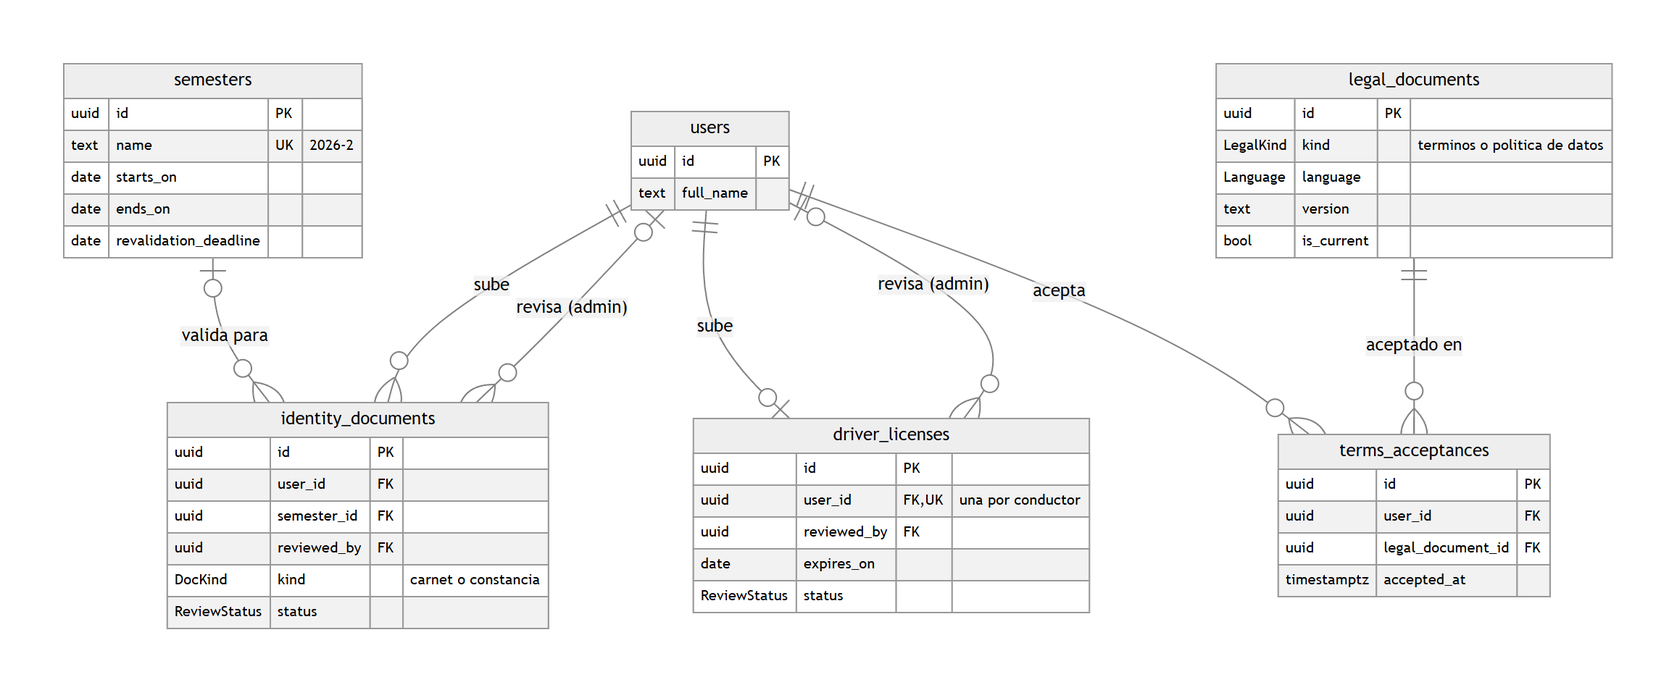
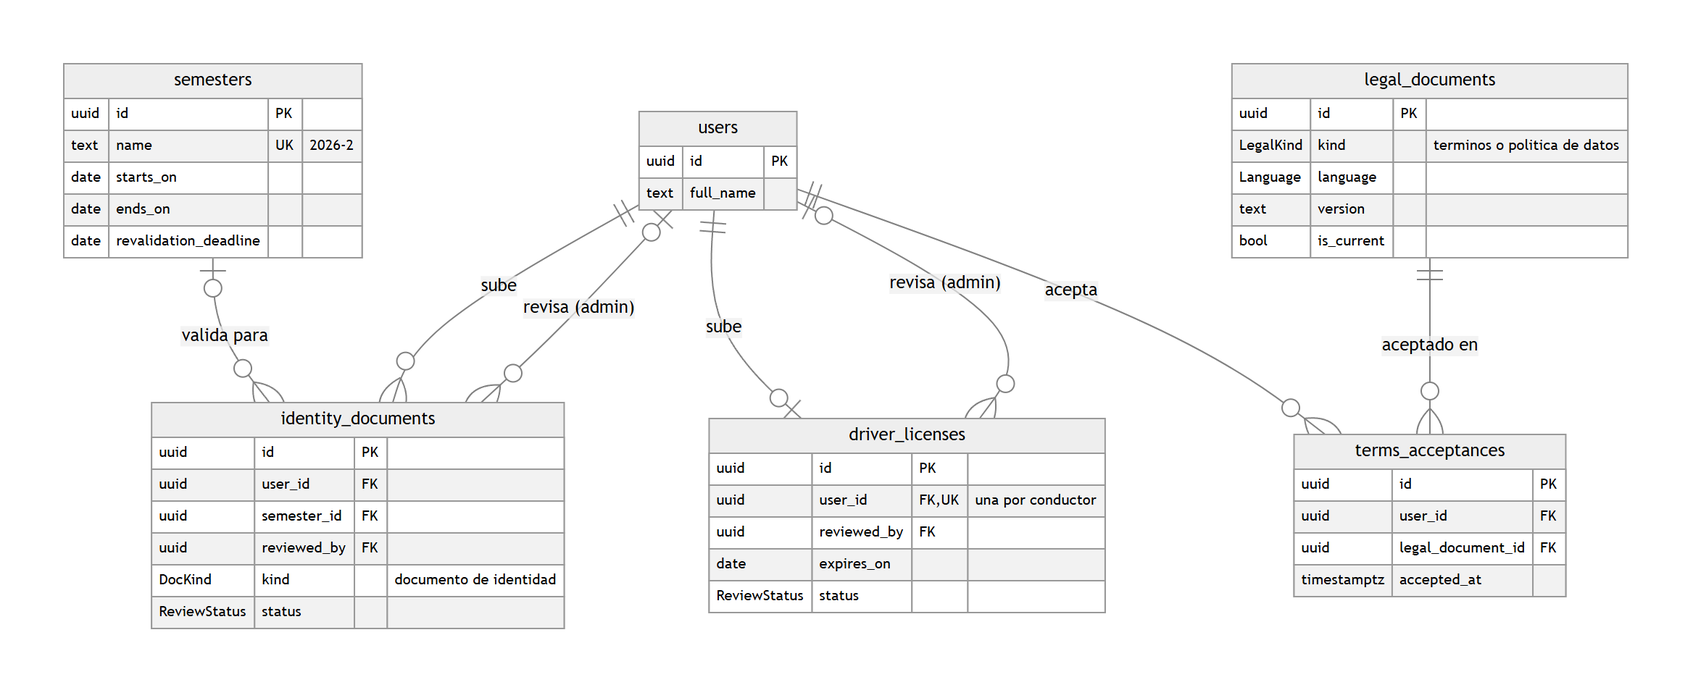
docs: describe the identity document in guides and the ER diagram

diff --git a/docs/DECISIONES.md b/docs/DECISIONES.md
@@ -80,16 +80,16 @@ Registro de decisiones tomadas durante la construcción que no estaban cerradas 
 
 | # | Decisión | Motivo |
 |---|----------|--------|
-| 3.1 | Una sola cola para carnets, constancias y licencias, separada por `type` (`identity` o `license`) y atendida en orden de llegada. Los ids son UUID, así que `/admin/approvals/{id}` funciona para ambas tablas. | Es la "misma cola" del plan y simplifica el panel. |
+| 3.1 | Una sola cola para documentos de identidad y licencias, separada por `type` (`identity` o `license`) y atendida en orden de llegada. Los ids son UUID, así que `/admin/approvals/{id}` funciona para ambas tablas. | Es la "misma cola" del plan y simplifica el panel. |
 | 3.2 | La cola muestra nombre, programa, rol, sexo declarado y estado del solicitante, pero no su correo ni su teléfono. | Sección 11: ningún endpoint devuelve datos de contacto de otros usuarios. |
-| 3.3 | Al aprobar un carnet el revisor confirma el sexo; si el documento muestra otro, lo corrige y queda en la auditoría (antes y después). | Sección 2: el administrador verifica el sexo al aprobar. |
+| 3.3 | Al aprobar un documento de identidad el revisor confirma el sexo; si el documento muestra otro, lo corrige y queda en la auditoría (antes y después). | Sección 2: el administrador verifica el sexo al aprobar. |
 | 3.4 | Un documento aprobado queda ligado al semestre vigente y `valid_until` es el fin del semestre. Si no había semestre al subirlo, se liga al vigente al aprobarlo. | Un documento por semestre. |
 | 3.5 | Nadie revisa sus propios documentos y no se puede revisar dos veces (`APPROVAL_NOT_PENDING`). | Evita conflictos de interés y carreras entre administradores. |
 | 3.6 | Una licencia vencida no se puede aprobar ni subir. Subir otra reemplaza la anterior y vuelve a revisión. | "Sin licencia aprobada y vigente no pueden publicar". |
 | 3.7 | `can_publish` en `/users/me`: conductor activo con licencia aprobada y vigente. El paso 4 agrega el requisito de vehículo activo. | Un solo lugar para esa regla. |
 | 3.8 | Archivos: `/admin/files/{id}` para administradores y `/users/me/documents/{id}/file` y `/users/me/license/file` para el dueño, con `Cache-Control: private, no-store`. La interfaz los descarga con el token y los muestra como object URL. | El token nunca va en una URL y el archivo no queda en caché. |
 | 3.9 | La CSP permite `frame-src 'self' blob:` (visor de PDF) y agrega `object-src 'none'`. | El visor usa object URLs locales. |
-| 3.10 | Revalidación diaria (`semester_revalidation`, 5:05 a. m. de Pamplona, y al arrancar el worker). Con semestre vigente: vencen los carnets aprobados de otros semestres y se avisa. Pasado `revalidation_deadline`: pasajeros y conductores activos sin carnet aprobado del semestre vuelven a `pending_approval`. Administradores y superadmin no revalidan. Sin semestre vigente (vacaciones) no hace nada. | Sección 7.1. Es idempotente. |
+| 3.10 | Revalidación diaria (`semester_revalidation`, 5:05 a. m. de Pamplona, y al arrancar el worker). Con semestre vigente: vencen los documentos de identidad aprobados de otros semestres y se avisa. Pasado `revalidation_deadline`: pasajeros y conductores activos sin documento de identidad aprobado del semestre vuelven a `pending_approval`. Administradores y superadmin no revalidan. Sin semestre vigente (vacaciones) no hace nada. | Sección 7.1. Es idempotente. |
 | 3.11 | El superadmin crea administradores con una clave inicial; el primer ingreso pide el código por correo. | El plan no define el envío de invitaciones; esto es lo más simple y seguro. |
 | 3.12 | El superadmin cambia roles entre pasajero, conductor y administrador. No puede cambiar el suyo ni asignar superadmin. Si deja de ser conductor se borra la nota de pago. | Sección 2. Queda en la auditoría y se avisa al usuario. |
 | 3.13 | Las notificaciones internas se adelantan: tabla, bandeja (`/notifications`) y pantalla. El paso 9 agrega la entrega en tiempo real. | Aprobaciones y vencimientos deben avisar al usuario. |
@@ -277,7 +277,7 @@ Registro de decisiones tomadas durante la construcción que no estaban cerradas 
 
 | # | Decisión | Motivo |
 |---|----------|--------|
-| 14.1 | Eliminación de la cuenta propia desde el perfil (`POST /users/me/delete`, con la contraseña). Se anonimizan nombre, correo (pasa a una dirección `.invalid` única), programa, foto, nota de pago y contraseña; se borran carnets, licencia (archivos y filas), contactos de confianza y avisos; los vehículos quedan dados de baja y sin foto, conservando la placa como registro operativo; se cancelan sus viajes y reservas futuros con aviso y se cierran todas sus sesiones. No se permite con un viaje en curso ni para el superadmin. Queda en la auditoría (`user.delete_self`). | Ley 1581 y sección 15 del plan: "solicitar eliminación de cuenta (anonimiza datos personales y conserva registros operativos)". Faltaba y la política de datos ya lo prometía. |
+| 14.1 | Eliminación de la cuenta propia desde el perfil (`POST /users/me/delete`, con la contraseña). Se anonimizan nombre, correo (pasa a una dirección `.invalid` única), programa, foto, nota de pago y contraseña; se borran documentos de identidad, licencia (archivos y filas), contactos de confianza y avisos; los vehículos quedan dados de baja y sin foto, conservando la placa como registro operativo; se cancelan sus viajes y reservas futuros con aviso y se cierran todas sus sesiones. No se permite con un viaje en curso ni para el superadmin. Queda en la auditoría (`user.delete_self`). | Ley 1581 y sección 15 del plan: "solicitar eliminación de cuenta (anonimiza datos personales y conserva registros operativos)". Faltaba y la política de datos ya lo prometía. |
 | 14.2 | Términos y política de datos sembrados en los cuatro idiomas (versión 1.0; manda la española). Se corrigieron dos frases para que coincidan con la app: el tope de aporte es opcional y la cuenta se elimina desde el perfil. | Requisito de entrega; antes inglés, portugués y francés mostraban el texto en español. |
 | 14.3 | Íconos: un módulo propio (`src/app/shared/icons/lucide.ts`, generado con `npm run icons`) con solo los 106 íconos de Lucide que usa la app, importados desde `@icons`. Las plantillas no cambian (`<svg lucideSearch>`). La carga inicial bajó de 745 kB a 436 kB (112 kB comprimidos). Resuelve 10.13 y 12.13. | El paquete `@lucide/angular` define cada ícono como componente con campos estáticos que el empaquetador no puede descartar: los ~1.600 íconos iban siempre en el arranque. |
 | 14.4 | Nginx reemplaza `X-Forwarded-For` con la IP real en lugar de agregarla a la del cliente. | Vulnerabilidad comprobada: cambiando esa cabecera en cada intento se esquivaba el límite de 10 inicios de sesión por minuto. |
@@ -291,7 +291,7 @@ Registro de decisiones tomadas durante la construcción que no estaban cerradas 
 | 14.12 | Documentación de entrega: `docs/DESPLIEGUE.md` (desarrollo, producción, certificados, respaldos, actualización, celular en la red local) y `docs/GUIA_ADMINISTRACION.md` (panel, aprobaciones, sanciones, emergencias, moderación y todos los parámetros). | Sección 16, paso 14. |
 | 14.13 | Correo a buzones reales por SMTP genérico, sin atarse a un proveedor: Gmail (contraseña de aplicación), Brevo o Resend en su plan gratuito, o el correo institucional, cambiando solo `SMTP_*` en `.env`. El puerto 465 usa TLS directo y el 587 STARTTLS. El worker reintenta los fallos pasajeros (`Retry` a los 30, 60, 90 y 120 s; ARQ no reintenta otras excepciones) y no reintenta destinatarios rechazados. `make email-test TO=...` comprueba la configuración. | Los códigos deben llegar a correos reales para la demostración y el despliegue; Resend sin dominio solo entrega al dueño de la cuenta, por eso Gmail o Brevo son la opción sin dominio. |
 | 14.14 | El worker de MapLibre 6 (`maplibre-gl-worker.mjs` y `maplibre-gl-shared.mjs`) se copia como recurso a `/map/maplibre/` (angular.json), el mapa lo indica con `setWorkerUrl`, y Nginx lo sirve como `text/javascript` (su `mime.types` no conoce `.mjs`). Antes la petición caía en el respaldo de la SPA y devolvía `index.html`: el mapa se quedaba gris, sin calles ni ruta. El recorrido E2E comprueba ahora que el worker carga. | Las pruebas solo veían que el mapa existiera, no que dibujara; el error lo encontró una prueba manual. |
-| 14.15 | Personas de prueba sin buzón real: `make verify-email EMAIL=...` hace lo mismo que escribir el código (de `pending_email` a `pending_approval`, sin segundo factor) y la cuenta sigue el camino normal de aprobación del carnet; `make forget-unverified EMAIL=...` borra solo registros que nunca verificaron el correo, con sus archivos, para repetir un registro. Los dos se niegan a correr en producción. Los casos de uso usan tres buzones institucionales reales (Linda, Jhonatan y Daniel) y el Gmail del superadmin para todo paso que dependa de un código. | Con el correo real activo, Mailpit ya no atrapa los códigos y solo hay tres buzones institucionales para nueve personas. |
+| 14.15 | Personas de prueba sin buzón real: `make verify-email EMAIL=...` hace lo mismo que escribir el código (de `pending_email` a `pending_approval`, sin segundo factor) y la cuenta sigue el camino normal de aprobación del documento de identidad; `make forget-unverified EMAIL=...` borra solo registros que nunca verificaron el correo, con sus archivos, para repetir un registro. Los dos se niegan a correr en producción. Los casos de uso usan tres buzones institucionales reales (Linda, Jhonatan y Daniel) y el Gmail del superadmin para todo paso que dependa de un código. | Con el correo real activo, Mailpit ya no atrapa los códigos y solo hay tres buzones institucionales para nueve personas. |
 
 ## Autoría en todas las tablas
 

diff --git a/docs/CASOS_DE_USO.md b/docs/CASOS_DE_USO.md
@@ -37,11 +37,11 @@ En PowerShell, desde la carpeta del proyecto (con `make` en Git Bash los comando
    ```powershell
    .\make.ps1 verify-email sofia.martinez@unipamplona.edu.co
    ```
-3. **Laura, Valentina, Lucía y Andrés.** Cada uno se registra en `/registro` como cualquier estudiante (Andrés con el rol Conductor), con sexo y carnet correctos. En `/verificar` el código nunca llega; en su lugar:
+3. **Laura, Valentina, Lucía y Andrés.** Cada uno se registra en `/registro` como cualquier estudiante (Andrés con el rol Conductor), con sexo y documento de identidad correctos. En `/verificar` el código nunca llega; en su lugar:
    ```powershell
    .\make.ps1 verify-email laura.gomez@unipamplona.edu.co
    ```
-   La cuenta queda "En revisión", igual que si hubiera escrito el código. Al entrar con su correo y contraseña ve `/cuenta/estado`, y Sofía aprueba su carnet en Aprobaciones. A Andrés no se le registra licencia ni vehículo todavía: eso es el caso 2.
+   La cuenta queda "En revisión", igual que si hubiera escrito el código. Al entrar con su correo y contraseña ve `/cuenta/estado`, y Sofía aprueba su documento de identidad en Aprobaciones. A Andrés no se le registra licencia ni vehículo todavía: eso es el caso 2.
 4. **Linda y Jhonatan** ya están activos. Linda tiene la licencia aprobada y el Renault 9 `ABC123`.
 5. **Daniel** tiene un registro anterior que nunca se verificó. Antes del caso 1 se borra para registrarse desde cero (solo borra cuentas sin verificar):
    ```powershell
@@ -79,7 +79,7 @@ El caso 20 elimina la cuenta de Jhonatan: conviene dejarlo para el final.
 
 ## Caso 1. Registro de un pasajero hasta su primer viaje posible
 
-**Objetivo:** el registro en cuatro pasos, la verificación del correo con sus límites y la aprobación del carnet con corrección del sexo.
+**Objetivo:** el registro en cuatro pasos, la verificación del correo con sus límites y la aprobación del documento de identidad con corrección del sexo.
 
 **Precondiciones:** Daniel no tiene cuenta (preparación, paso 5). Hay un semestre vigente (2026-2).
 
@@ -88,15 +88,15 @@ El caso 20 elimina la cuenta de Jhonatan: conviene dejarlo para el final.
 1. Abre https://localhost en una ventana privada: ve la bienvenida de 3 pasos (propuesta, cómo funciona, seguridad) y elige "Crear cuenta".
 2. Paso 1, Tus datos: escribe `daniel.pinzonqui@gmail.com`. Al continuar el campo lo rechaza (debe terminar en `.edu.co`; si llegara al servidor, `EMAIL_NOT_INSTITUTIONAL`: "Usa tu correo institucional"). Corrige a `daniel.pinzonqui@unipamplona.edu.co`. Con una contraseña de 8 caracteres ve "Mínimo 10 caracteres". Por error elige sexo "Mujer".
 3. Paso 2, Tu rol: elige Pasajero.
-4. Paso 3, Tu documento: elige Carnet estudiantil y sube una foto JPG de 7 MB: "El archivo pesa más de 5 MB. Usa uno más liviano." (`FILE_TOO_LARGE`). Sube una foto de 2 MB.
+4. Paso 3, Tu documento: sube una foto JPG de 7 MB de su documento de identidad: "El archivo pesa más de 5 MB. Usa uno más liviano." (`FILE_TOO_LARGE`). Sube una foto de 2 MB.
 5. Paso 4, Confirmación: sin marcar las dos casillas no puede crear la cuenta. Las marca y la crea.
 6. Llega a `/verificar` con el correo enmascarado (`da**************@unipamplona.edu.co`). En su buzón institucional llega "Verifica tu correo" con un código de 6 dígitos. Escribe 5 códigos equivocados: al quinto el código deja de servir y cualquier intento responde "El código no es correcto o ya venció" (`CODE_INVALID`), aunque luego escriba el correcto que le llegó.
 7. Pide un código nuevo: el botón está deshabilitado hasta pasar 60 s. Llega un segundo correo con otro código; el primero ya no sirve. Con el nuevo verifica.
 8. Queda en `/cuenta/estado`: "Tu cuenta está en revisión". No puede entrar a Buscar.
-9. Sofía (administradora) abre Aprobaciones > Carnets: ve el nombre, el programa y "Declarado al registrarse: Mujer", pero no el correo. Corrige el sexo a Hombre y aprueba.
+9. Sofía (administradora) abre Aprobaciones > Documentos de identidad: ve el nombre, el programa y "Declarado al registrarse: Mujer", pero no el correo. Corrige el sexo a Hombre y aprueba.
 10. Daniel recibe el aviso "Tu documento fue aprobado" y, al recargar, entra a `/buscar`.
 
-**Verificación adicional:** en Configuración > Auditoría aparece la aprobación con el sexo antes (`female`) y después (`male`). La foto del carnet ya no tiene metadatos EXIF (ubicación GPS). Al cerrar sesión y volver a entrar, Daniel no recibe código: la verificación del correo contó como segundo factor.
+**Verificación adicional:** en Configuración > Auditoría aparece la aprobación con el sexo antes (`female`) y después (`male`). La foto del documento ya no tiene metadatos EXIF (ubicación GPS). Al cerrar sesión y volver a entrar, Daniel no recibe código: la verificación del correo contó como segundo factor.
 
 **Prueba automatizada relacionada:** `frontend/e2e/account.spec.ts` (registro, código y aprobación), `backend/tests/test_auth.py`, `backend/tests/test_approvals.py`.
 
@@ -106,7 +106,7 @@ El caso 20 elimina la cuenta de Jhonatan: conviene dejarlo para el final.
 
 **Objetivo:** requisitos para publicar: licencia aprobada y vigente, y un vehículo activo con placa y capacidad válidas.
 
-**Precondiciones:** Andrés se registró como Conductor y su carnet está aprobado (preparación, paso 3).
+**Precondiciones:** Andrés se registró como Conductor y su documento de identidad está aprobado (preparación, paso 3).
 
 **Pasos y resultados esperados**
 
@@ -460,13 +460,13 @@ El caso 20 elimina la cuenta de Jhonatan: conviene dejarlo para el final.
 
 ## Caso 19. Nuevo semestre y nueva versión de los términos
 
-**Objetivo:** la revalidación semestral del carnet y la aceptación obligatoria de términos nuevos.
+**Objetivo:** la revalidación semestral del documento de identidad y la aceptación obligatoria de términos nuevos.
 
 **Pasos y resultados esperados**
 
 1. El superadmin crea el semestre 2027-1 (1 de febrero a 30 de junio). Si se cruza con otro semestre: `SEMESTER_OVERLAP`.
-2. Al empezar 2027-1, el carnet de Laura (aprobado en 2026-2) vence y recibe el aviso de revalidación. Tiene hasta el plazo del semestre (30 días desde el inicio, por defecto) para subir el nuevo.
-3. Jhonatan no lo sube a tiempo: al pasar el plazo su cuenta vuelve a "En revisión" y solo ve su estado hasta que se apruebe un carnet nuevo. Administradores y superadmin no revalidan.
+2. Al empezar 2027-1, el documento de identidad de Laura (aprobado en 2026-2) vence y recibe el aviso de revalidación. Tiene hasta el plazo del semestre (30 días desde el inicio, por defecto) para subir el nuevo.
+3. Jhonatan no lo sube a tiempo: al pasar el plazo su cuenta vuelve a "En revisión" y solo ve su estado hasta que se apruebe un documento nuevo. Administradores y superadmin no revalidan.
 4. El superadmin publica los términos versión 1.1 en español. Publicar otra vez la versión 1.1 en español responde `LEGAL_VERSION_EXISTS`.
 5. En su siguiente ingreso, cada persona con la app en español ve la pantalla de términos y no puede seguir sin aceptarlos. Quien la usa en inglés (por ejemplo Daniel, si cambia el idioma antes) sigue con la versión inglesa vigente hasta que se publique la suya.
 6. Laura acepta y continúa; la aceptación queda guardada con la versión exacta.

diff --git a/docs/GUIA_ADMINISTRACION.md b/docs/GUIA_ADMINISTRACION.md
@@ -19,14 +19,14 @@ Resumen del periodo elegido (7, 30 o 90 días): viajes completados, cancelacione
 
 ## 3. Aprobaciones
 
-Cola en orden de llegada, con dos pestañas: **carnets y constancias**, y **licencias**.
+Cola en orden de llegada, con dos pestañas: **documentos de identidad** y **licencias**.
 
 1. Abre el documento en el visor seguro (no queda guardado en el navegador).
 2. Compara el nombre y el sexo con lo que la persona declaró. Si el sexo no coincide, corrígelo al aprobar: de él depende el acceso a los viajes solo para mujeres.
 3. **Aprobar** activa la cuenta (o habilita a conducir, si es una licencia) y avisa a la persona.
 4. **Rechazar** pide un motivo que la persona verá. Escribe qué debe corregir.
 
-Cada semestre las personas revalidan su carnet dentro del plazo del semestre (Configuración > Semestres).
+Cada semestre las personas revalidan su documento de identidad dentro del plazo del semestre (Configuración > Semestres).
 
 ## 4. Usuarios
 
@@ -66,7 +66,7 @@ Comentarios de las calificaciones, en dos pestañas: **visibles** y **ocultos**.
 | Pestaña | Para qué |
 |---------|----------|
 | **Parámetros** | Reglas del negocio (tabla de abajo). El servidor valida cada valor antes de guardarlo. |
-| **Semestres** | Inicio, fin y plazo de revalidación. Las series y la vigencia de los carnets dependen de ellos. |
+| **Semestres** | Inicio, fin y plazo de revalidación. Las series y la vigencia de los documentos de identidad dependen de ellos. |
 | **Lugares** | Sedes, barrios y puntos de referencia del buscador. Desactivar en vez de borrar: los viajes antiguos los siguen usando. Las coordenadas del seed son aproximadas: revísalas. |
 | **Pico y placa** | Tipo de vehículo, día, dígitos restringidos y vigencia. Al guardar, los viajes futuros afectados se cancelan solos con aviso; si una regla deja de aplicar, vuelven. Las reglas del seed son de ejemplo: ajústalas al decreto vigente. |
 | **Legal** | Publica una versión nueva de los términos o de la política de datos por idioma. Queda vigente de inmediato y todos deben aceptarla en su próximo ingreso. Los textos del seed son un borrador pendiente de revisión jurídica. |
@@ -89,7 +89,7 @@ Comentarios de las calificaciones, en dos pestañas: **visibles** y **ocultos**.
 | `rating_window_days` | 7 | Días para calificar después del viaje |
 | `chat_retention_days` | 30 | Días que se conserva el chat después del viaje |
 | `pending_request_hours` | 24 | Horas tras las que vence una solicitud sin respuesta |
-| `revalidation_days` | 30 | Días desde el inicio del semestre para revalidar el carnet |
+| `revalidation_days` | 30 | Días desde el inicio del semestre para revalidar el documento de identidad |
 | `password_min_length` | 10 | Longitud mínima de la contraseña |
 | `login_max_attempts` / `login_lockout_minutes` | 5 / 15 | Intentos fallidos antes del bloqueo temporal, y su duración |
 | `auth_code_minutes` / `auth_code_max_attempts` / `auth_code_resend_seconds` | 10 / 5 / 60 | Vigencia, intentos y espera de los códigos por correo |
@@ -107,7 +107,7 @@ Comentarios de las calificaciones, en dos pestañas: **visibles** y **ocultos**.
 
 ## 9. Datos personales (Ley 1581)
 
-- Nadie ve el correo, el teléfono, el carnet ni la licencia de otra persona. La placa solo la ven los pasajeros con reserva aceptada y quien tenga el enlace de un viaje compartido.
+- Nadie ve el correo, el teléfono, el documento de identidad ni la licencia de otra persona. La placa solo la ven los pasajeros con reserva aceptada y quien tenga el enlace de un viaje compartido.
 - Cada persona puede **eliminar su cuenta** desde su perfil: se anonimizan sus datos, se borran sus documentos y contactos, y se conservan solo los registros operativos de los viajes. Una cuenta eliminada ya no aparece en el panel.
 
 ## 10. Mantenimiento

diff --git a/docs/API.md b/docs/API.md
@@ -144,7 +144,7 @@ El refresh token viaja en la cookie HttpOnly `cp_refresh` (ruta `/api/v1/auth`).
 | `POST /auth/password/forgot` | Público | 5/min | `{email}`. Misma respuesta exista o no la cuenta. |
 | `POST /auth/password/reset` | Público | 10/min | `{challenge_id, code, new_password}`. Revoca todas las sesiones y vuelve a pedir 2FA. |
 | `GET, PATCH /users/me` | Sesión (cualquier estado) | | Perfil propio con `document` y `pending_legal`. Se puede cambiar `program`, `preferred_language`, `theme_preference` y `payment_note` (solo conductores). |
-| `GET, POST /users/me/documents` | Sesión (cualquier estado) | | Historial y carga de carnet o constancia (multipart: `kind`, `document`). |
+| `GET, POST /users/me/documents` | Sesión (cualquier estado) | | Historial y carga del documento de identidad (multipart: `kind`, `document`). |
 | `POST /legal/accept` | Sesión | | `{document_ids}` de versiones vigentes pendientes. |
 | `POST /users/me/delete` | Sesión | | `{password}`. Elimina la cuenta propia (Ley 1581): anonimiza nombre, correo, foto, programa y contraseña; borra documentos, licencia, contactos de confianza y avisos; cancela sus viajes y reservas futuros con aviso; cierra todas sus sesiones. Conserva los registros operativos. 204. Errores `PASSWORD_INCORRECT` (422), `ACCOUNT_DELETE_TRIP_IN_PROGRESS` y `ACCOUNT_DELETE_NOT_ALLOWED` (superadmin) (409). |
 
@@ -155,9 +155,9 @@ El refresh token viaja en la cookie HttpOnly `cp_refresh` (ruta `/api/v1/auth`).
 | `GET /admin/approvals?type=&status=&limit=&cursor=` | Admin o superadmin | Cola en orden de llegada. `type`: `identity` (por defecto) o `license`; `status`: `pending` por defecto. |
 | `GET /admin/approvals/counts` | Admin o superadmin | Pendientes por tipo. |
 | `GET /admin/approvals/{id}` | Admin o superadmin | Detalle de un elemento. |
-| `POST /admin/approvals/{id}/approve` | Admin o superadmin | `{sex?}` para corregir el sexo en carnets. Activa la cuenta si estaba en `pending_approval`. |
+| `POST /admin/approvals/{id}/approve` | Admin o superadmin | `{sex?}` para corregir el sexo en documentos de identidad. Activa la cuenta si estaba en `pending_approval`. |
 | `POST /admin/approvals/{id}/reject` | Admin o superadmin | `{reason}` (5 a 300 caracteres); el usuario lo ve. |
-| `GET /admin/files/{id}` | Admin o superadmin | Archivo del carnet, constancia o licencia, sin caché. |
+| `GET /admin/files/{id}` | Admin o superadmin | Archivo del documento de identidad o la licencia, sin caché. |
 | `POST /admin/admins` | Superadmin | `{email, full_name, sex, password}`. |
 | `PATCH /admin/users/{id}/role` | Superadmin | `{role}`: `passenger`, `driver` o `admin`. |
 | `GET /users/me/documents/{id}/file` | Dueño | Archivo propio. |

diff --git a/README.md b/README.md
@@ -9,7 +9,7 @@ Plataforma web para que la comunidad de la Universidad de Pamplona comparta tray
 | 0 | Cimientos: monorepo, Docker Compose, FastAPI modular, Angular con sistema de diseño glass | Hecho |
 | 1 | Configuración y catálogos: parámetros, semestres, lugares, pico y placa, documentos legales y auditoría | Hecho |
 | 2 | Autenticación y cuentas: registro con documento, verificación de correo, 2FA, sesiones, recuperación, términos y pantallas | Hecho |
-| 3 | Aprobaciones y revalidación: cola de carnets y licencias, visor seguro, revalidación semestral, administradores, roles y notificaciones | Hecho |
+| 3 | Aprobaciones y revalidación: cola de documentos de identidad y licencias, visor seguro, revalidación semestral, administradores, roles y notificaciones | Hecho |
 | 4 | Vehículos: CRUD con foto, reglas de placa y capacidad, requisitos para publicar e inicio del conductor | Hecho |
 | 5 | Rutas y mapas: OSRM con el mapa de Pamplona, ETA con factor de tráfico, aporte sugerido, mapa base propio y planificador de rutas | Hecho |
 | 6 | Publicación de viajes y series: asistente, ocurrencias, pico y placa, edición, cancelación, duplicado y Mis viajes del conductor | Hecho |

diff --git a/docs/DIAGRAMA_ER.md b/docs/DIAGRAMA_ER.md
@@ -97,7 +97,7 @@ erDiagram
     uuid user_id FK
     uuid semester_id FK
     uuid reviewed_by FK
-    DocKind kind "carnet o constancia"
+    DocKind kind "documento de identidad"
     ReviewStatus status
   }
   driver_licenses {
@@ -474,7 +474,7 @@ erDiagram
 
 ### 2. Documentos y legal
 
-Carnet o constancia por semestre, licencia de conducción, versiones de términos y política de datos, y su aceptación.
+Documento de identidad por semestre, licencia de conducción, versiones de términos y política de datos, y su aceptación.
 
 ```mermaid
 erDiagram
@@ -494,7 +494,7 @@ erDiagram
     uuid user_id FK
     uuid semester_id FK
     uuid reviewed_by FK
-    DocKind kind "carnet o constancia"
+    DocKind kind "documento de identidad"
     ReviewStatus status
   }
   driver_licenses {

diff --git a/backend/README.md b/backend/README.md
@@ -59,7 +59,7 @@ Cada módulo repite la misma estructura, así es fácil encontrar dónde está c
 |--------|-----------|
 | `auth` | Registro, ingreso, códigos por correo, segundo factor, sesiones y recuperación de contraseña |
 | `users` | Perfil propio y eliminación de cuenta con anonimización |
-| `documents` | Carné o constancia y licencia de conducción; revalidación semestral |
+| `documents` | Documento de identidad y licencia de conducción; revalidación semestral |
 | `legal` | Términos y política de datos versionados y su aceptación |
 | `semesters` · `places` · `pico_placa` · `settings` | Catálogos y parámetros que configura el superadmin |
 | `vehicles` | Vehículos del conductor y requisitos para publicar |

diff --git a/docs/DESPLIEGUE.md b/docs/DESPLIEGUE.md
@@ -128,7 +128,7 @@ Con SMTP real, la prueba E2E de registro (`account.spec.ts`) ya no encuentra el 
 
 - El contenedor `backup` hace un `pg_dump` al arrancar y luego cada 24 horas, y conserva los 7 últimos en `backups/`. Si la base no responde, reintenta cada 5 minutos.
 - Conviene copiar la carpeta `backups/` fuera del servidor (otro disco o almacenamiento de la universidad).
-- Los archivos privados (carnets, licencias, fotos) viven en el volumen `storage`; respáldalo junto con la base.
+- Los archivos privados (documentos de identidad, licencias, fotos) viven en el volumen `storage`; respáldalo junto con la base.
 
 **Comprobar un respaldo sin tocar nada** (restaura el último en una base aparte, compara filas y la borra):
 
